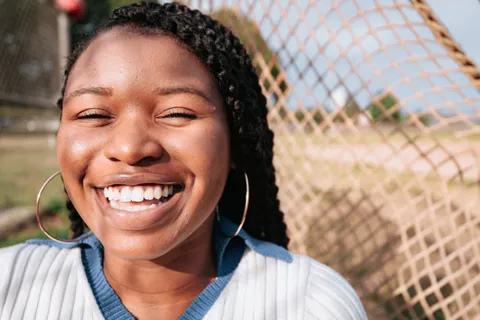
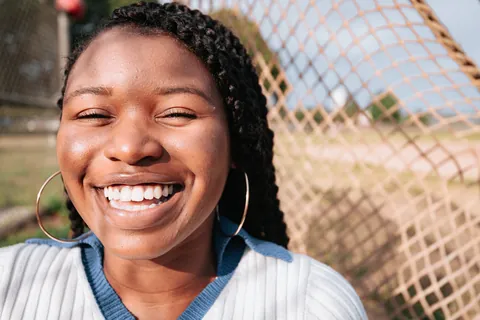
Full-resolution hero, studio and smile photography with responsive sizes

diff --git a/src/components/ora/EditorialImage.tsx b/src/components/ora/EditorialImage.tsx
@@ -5,20 +5,24 @@ import { motion, useReducedMotion } from 'motion/react'
 // vertical wipe as they enter view.
 
 export const IMAGES = {
-  treatmentRoom: { src: 'treatment-room-above', alt: 'A treatment chair seen from above on a warm wooden floor', w: 960, h: 640 },
-  treatmentChair: { src: 'treatment-chair', alt: 'A sculptural dental chair in a bright, quiet treatment room', w: 960, h: 640 },
+  treatmentRoom: { src: 'treatment-room-above', alt: 'A treatment chair seen from above on a warm wooden floor', w: 2400, h: 1600, mids: [1280, 1920] },
+  treatmentChair: { src: 'treatment-chair', alt: 'A sculptural dental chair in a bright, quiet treatment room', w: 2400, h: 1600, mids: [1280] },
   chairDetail: { src: 'chair-detail', alt: 'Close detail of a treatment chair headrest in soft light', w: 1024, h: 683 },
   instrumentsArm: { src: 'instruments-arm', alt: 'Dental instruments resting on the arm of a treatment unit', w: 960, h: 640 },
   instrumentMacro: { src: 'instrument-macro', alt: 'A single dental instrument against a pale background', w: 1024, h: 683 },
-  smile: { src: 'smile-portrait', alt: 'A woman laughing with a natural, relaxed smile', w: 960, h: 640 },
-  smile2: { src: 'smile-portrait-2', alt: 'A woman smiling broadly outdoors', w: 960, h: 640 },
+  smile: { src: 'smile-portrait', alt: 'A woman laughing with a natural, relaxed smile', w: 2400, h: 1600, mids: [1280] },
+  smile2: { src: 'smile-portrait-2', alt: 'A woman smiling broadly outdoors', w: 2400, h: 1600, mids: [1280] },
   model: { src: 'dental-model', alt: 'A dental model on a dark surface', w: 1024, h: 683 },
-} as const
+} as const satisfies Record<string, { src: string; alt: string; w: number; h: number; mids?: readonly number[] }>
 
 export type ImageKey = keyof typeof IMAGES
 
 export const imageSrc = (k: ImageKey) => `/images/${IMAGES[k].src}.webp`
-export const imageSet = (k: ImageKey) => `/images/${IMAGES[k].src}-480.webp 480w, /images/${IMAGES[k].src}.webp ${IMAGES[k].w}w`
+export const imageSet = (k: ImageKey) => {
+  const img: { src: string; w: number; mids?: readonly number[] } = IMAGES[k]
+  const mids = (img.mids ?? []).map((m) => `/images/${img.src}-${m}.webp ${m}w`)
+  return [`/images/${img.src}-480.webp 480w`, ...mids, `/images/${img.src}.webp ${img.w}w`].join(', ')
+}
 
 export const WARM_GRADE = 'sepia(0.16) saturate(0.86) contrast(1.03) brightness(1.02)'
 

diff --git a/ASSETS.md b/ASSETS.md
@@ -1,7 +1,9 @@
 # Assets
 
 All photography is public-domain (CC0), downloaded and optimised locally to
-`public/images/` as WebP (full size + 480w). Nothing is hotlinked. A warm CSS
+`public/images/` as WebP. The hero, studio chair and both smile portraits come
+from the photographers' full-resolution originals (480w, 1280w, 1920w for the
+hero, and 2400w); the remaining images are 960–1024px previews (480w + full). Nothing is hotlinked. A warm CSS
 grade (`WARM_GRADE` in `src/components/ora/EditorialImage.tsx`) is applied at
 render time; the files themselves are unedited apart from resizing.
 
